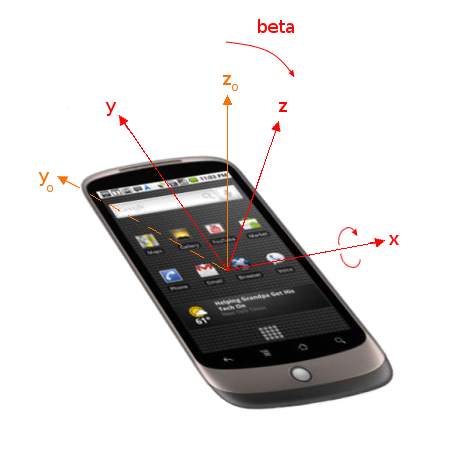
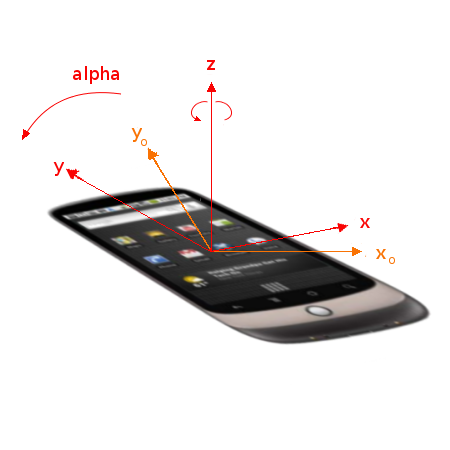
Changes to html5 deviceMotion api, and addition of the deviceOrientation api

diff --git a/api/html5_deviceMotion.js b/api/html5_deviceMotion.js
@@ -14,93 +14,249 @@
 * limitations under the License.
 */
 
+
 /**
- * @toc {Accelerometer} Acceleration
- * @PB10
- *Acceleration data is given in meters per second squared and uses the body axes defined in the device orientation event. Acceleration data (without the effect of gravity) cannot be provided when there is a lack of a gyroscope. 
- *Implementations that are unable to provide acceleration data without the effect of gravity may instead supply the acceleration including the effect of gravity. 
- *<p>The values reported are equal to the acceleration of the device, plus an acceleration equal and opposite to the acceleration due to gravity.
- *This is less useful in many applications but is provided as a means of providing best-effort support. 
- *These values can be stored and manipulated in variables outside the event scope. These values can be used to control the motion of objects defined on the DOM by the device's gyroscope and accelerometer. 
- *<p>Data Examples: 
- *A device lying flat on a horizontal surface with the screen upmost has an acceleration of zero and the following value for accelerationIncludingGravity:
- *     <p> {x: 0,
+ * @toc {DeviceOrientation} DeviceOrientationEvent
+ * @namespace The Orientation event is subsequently fired on a window object when a significant change on orientation occurs. 
+ * <br>Registration for orientation events is achieved by calling window.addEventListener with event type "deviceorientation". Implementations must only fire events asynchronously, after this call has returned.
+ * <br><br>The orientation of the device is given in terms of the transformation from a coordinate frame fixed on the Earth to a coordinate frame fixed in the device. This is typically implemented by combining information from an accelerometer and a magnetometer.
+ * <br><br>The event's absolute property dictates whether the implementation is able or unable to provide absolute values for the three angles of alpha, beta and gamma.
+ * <br><br>The values of alpha, beta and gamma represent the angles measured as the  device's axes change with respect to some fixed coordinate frame. See {@link RotationRate} for details.
+ * <br><br>A device lying flat on a horizontal surface with the top of the screen pointing west has the following orientation:
+ * <br>			<i> { alpha: 90, beta: 0, gamma: 0 }</i>
+ */
+ DeviceOrientationEvent = {
+
+	/**
+	 * @default 90
+	 * @type Number
+	 * @desc Returns the rotation angle around the device frame's Z-axis in degrees. See {@link RotationRate} for details.
+	 * @readOnly
+	 * @PB10
+	 */ 
+	alpha : Number,
+
+	/**
+	 * @default 0
+	 * @type Number
+	 * @desc Returns the rotation angle around the device frame's X-axis in degrees. See {@link RotationRate} for details.
+	 * @readOnly
+	 * @PB10
+	 */ 
+	beta : Number,
+
+	/**
+	 * @default 0
+	 * @type Number
+	 * @desc Returns the rotation angle around the device frame's Y-axis in degrees. See {@link RotationRate} for details.
+	 * @readOnly
+	 * @PB10
+	 */ 
+	gamma: Number,
+
+	/**
+	 * @type boolean
+	 * @desc Returns true if can provide absolute values for the three angles, false if can provide values for the three angles that are relative to some arbritary orientation.
+	 * @PB10
+	 */
+	absolute: boolean,
+
+	/**
+	 * @type boolean
+	 * @desc Indicates if the compass of the device is correctly calibrated. If it is set to false, user action, such as performing a manual calibration procedure, is required.
+	 * @PB10
+	 */
+	compassCalibrated: boolean,
+	
+	/**
+	 * @function 
+	 * @desc
+	 * @PB10
+	 * @example
+	 * &lt;script type="text/javascript"&gt;
+	 *
+	 * //Device Orientation is registered by calling window.addEventListener with event type "deviceorientation." 
+	 * window.addEventListener("deviceorientation", function(event) {
+	 *     // Events processes event.alpha, event.beta and event.gamma
+	 *              
+	 *     // The following code displays the alpha, beta and gamma values on the webworks application page. 
+	 *     Alpha.innerHTML = "alpha - " + event.alpha;         
+	 *     Beta.innerHTML = "beta - " + event.beta;
+	 * 	   Gamma.innerHTML = "gamma - " + event.gamma;
+	 *               
+	 * }, true)
+	 *
+	 * &lt;/script&gt;
+	 */
+	initDeviceOrientationEvent : function(){};
+
+};
+ 
+
+/**
+ * @toc {DeviceOrientation} Acceleration
+ * @namespace
+ * Acceleration data is given in meters per second squared and uses the body axes defined in the device orientation event. Acceleration data (without the effect of gravity) cannot be provided when there is a lack of a gyroscope. 
+ * Implementations that are unable to provide acceleration data without the effect of gravity may instead supply the acceleration including the effect of gravity. 
+ * <p>The values reported are equal to the acceleration of the device, plus an acceleration equal and opposite to the acceleration due to gravity.
+ * This is less useful in many applications but is provided as a means of providing best-effort support. 
+ * These values can be stored and manipulated in variables outside the event scope. These values can be used to control the motion of objects defined on the DOM by the device's gyroscope and accelerometer. 
+ * <br><br> {@image //images//xyz.png} <br><br>
+ * <p>Data Examples: 
+ * A device lying flat on a horizontal surface with the screen upmost has an acceleration of zero and the following value for accelerationIncludingGravity:
+ *     <p><i> {x: 0,
  *      y: 0,
- *      z: 9.81};</p></p>
- *A device is mounted in a vehicle, with the screen in a vertical plane, the top uppermost and facing the rear of the vehicle. The vehicle is travelling at speed v around a right-hand bend of radius r. 
- *The the device records a positive x component for both acceleration and accelerationIncludingGravity. The device also records a negative value for rotationRate.gamma:
- *<ul>
- *<li>acceleration: {x: v^2/r, y: 0, z: 0};</li>
- *<li>accelerationIncludingGravity: {x: v^2/r, y: 0, z: 9.81};</li>
- *<li>rotationRate: {alpha: 0, beta: 0, gamma: -v/r*180/pi} };</li>
- *</ul>
- *@class
- *@property {Number} x component of acceleration.
- *@property {Number} y component of acceleration.
- *@property {Number} z component of acceleration.
- */ 
-Acceleration={
-	x:, 
-	y:,
-	z:,
+ *      z: 9.81};</i></p></p>
+*/
+Acceleration = {
+
+	/**
+	 * @type Number
+	 * @desc x-coordinate of the acceleration
+	 * @readOnly
+	 * @PB10
+	 */ 
+	x:Number,
+
+	/**
+	 * @type Number
+	 * @desc y-coordinate of the acceleration
+	 * @readOnly
+	 * @PB10
+	 */ 	
+	y:Number,
+	
+	/**
+	 * @type Number
+	 * @desc z-coordinate of the acceleration
+	 * @readOnly
+	 * @PB10
+	 */ 
+	z:Number,
 };
 
 /**
- * @toc {Accelerometer} RotationRate
+ * @toc {DeviceOrientation} RotationRate
  * @PB10
- *Represents the Angular velocity of the motion.
- *The orientation of the device is given in terms of the transfromation from a coordinate frame fixed on the Earth to a coordinate frame fixed in the device.
- *The Earth coordinate frame is a 'East, North, Up' frame at the user's location. It has the following 3 axes, where the ground plane is tangent to the WGS 84 spheroid at the user's location.
- *<ul>
- *<li>East (X) is in the ground plane, perpendicular to the North axis and positive towards the East.</li>
- *<li>North (Y) is in the ground plane and positive towards True North (towards the North Pole).</li>
- *<li>Up (Z) is perpendicular to the ground plane and positive upwards.</li>
- *</ul>
- *For a mobile device, the device coordinate frame has the following 3 axes. The axes are defined relative to the standard orientation of the screen, 
- *typically portrait, when slide-out keyboards are not deployed. If the orientation of the screen changes when the device is rotated or a slide-out keyboard is deployed, 
- *this does not affect the orientation of the coordinate frame relative to the device. Users wishing to detect these changes in screen orientation may be able to do so with the existing orientationchange event.
- *<ul>
- *<li>x is in the plane of the screen and is positive towards the right hand side of the screen.</li>
- *<li>y is in the plane of the screen and is positive towards the top of the screen.</li>
- *<li>z is perpendicular to the screen, positive out of the screen.</li>
- *</ul>
- *The transformation from the Earth frame to the device frame is expressed in terms of 3 rotations, 
- *specified in the device frame. Rotations use the right-hand convention: positive rotation around an axis is clockwise when viewed along the positive direction of the axis.
- *@class
- *@property {Number} alpha Angular velocity of the device frame around its z axis by alpha degrees/s.
- *@property {Number} beta Angular velocity of the device frame around its x axis by beta degrees/s.
- *@property {Number} gamma Angular velocity of the device frame around its y axis by gamma degrees/s.
+ * @namespace
+ * Represents the Angular velocity of the motion.
+ * The orientation of the device is given in terms of the transfromation from a coordinate frame fixed on the Earth to a coordinate frame fixed in the device.
+ * The Earth coordinate frame is a 'East, North, Up' frame at the user's location. It has the following 3 axes, where the ground plane is tangent to the WGS 84 spheroid at the user's location.
+ * <ul>
+ * <li>East (X) is in the ground plane, perpendicular to the North axis and positive towards the East.</li>
+ * <li>North (Y) is in the ground plane and positive towards True North (towards the North Pole).</li>
+ * <li>Up (Z) is perpendicular to the ground plane and positive upwards.</li>
+ * </ul>
+ * For a mobile device, the device coordinate frame has the following 3 axes. The axes are defined relative to the standard orientation of the screen, 
+ * typically portrait, when slide-out keyboards are not deployed. If the orientation of the screen changes when the device is rotated or a slide-out keyboard is deployed, 
+ * this does not affect the orientation of the coordinate frame relative to the device. Users wishing to detect these changes in screen orientation may be able to do so with the existing orientationchange event.
+ * <ul>
+ * <li>x is in the plane of the screen and is positive towards the right hand side of the screen.</li>
+ * <li>y is in the plane of the screen and is positive towards the top of the screen.</li>
+ * <li>z is perpendicular to the screen, positive out of the screen.</li>
+ * </ul>
+ * The transformation from the Earth frame to the device frame is expressed in terms of 3 rotations, 
+ * specified in the device frame. Rotations use the right-hand convention: positive rotation around an axis is clockwise when viewed along the positive direction of the axis.
  */ 
 RotationRate={
-	alpha:,
-	beta:,
-	gamma:,
+
+ /*@property {Number} alpha Angular velocity of the device frame around its z axis by alpha degrees/s.
+  *@property {Number} beta Angular velocity of the device frame around its x axis by beta degrees/s.
+  *@property {Number} gamma Angular velocity of the device frame around its y axis by gamma degrees/s.
+  */
+  
+ 	/**
+	 * @default 90
+	 * @type Number
+	 * @desc Returns the rotation angle around the device frame's Z-axis in degrees.
+	 * {@image //images//a-rotation.png}
+	 * @readOnly
+	 * @PB10
+	 */ 
+	alpha : Number,
+
+	/**
+	 * @default 0
+	 * @type Number
+	 * @desc Returns the rotation angle around the device frame's X-axis in degrees.
+	 * {@image //images//b-rotation.png}
+	 * @readOnly
+	 * @PB10
+	 */ 
+	beta : Number,
+
+	/**
+	 * @default 0
+	 * @type Number
+	 * @desc Returns the rotation angle around the device frame's Y-axis in degrees.
+	 * {@image //images//g-rotation.png}
+	 * @readOnly
+	 * @PB10
+	 */ 
+	gamma: Number,
 };
 
 /**
- * @toc {Accelerometer} DeviceMotionEvent
+ * @toc {DeviceOrientation} DeviceMotionEvent
  * @PB10
- *This event provides direct access to motion data from an accelerometer and gyroscope. The three pieces of data provided are the acceleration, acceleration including gravity and rotation rate. <br>Because our hardware currently does not have a gyroscope, not all interfaces of this event are available to us (acceleration without gravity and rotation rate.)<br>
- *@class 
- *@property {Acceleration} acceleration The acceleration provided by the acceleration property is that of the body and hence excludes the effect of gravity.
- *@property {Acceleration} accelerationIncludingGravity Implementations that are unable to provide acceleration data without the effect of gravity (due, for example, to the lack of a gyroscope) may instead supply the acceleration including the effect of gravity. This is less useful in many applications but is provided as a means of providing best-effort support. 
- *In this case, the values reported are equal to the acceleration of the device, plus an acceleration equal and opposite to the acceleration due to gravity.
- *@property {RotationRate} rotationRate The Angular velocity of the motion.
- *@property {Number} interval event must fire at regular intervals and the interval must be reported, in milliseconds, using the interval attribute of the DeviceMotionEvent object. Note that the interval is a constant for a given implementation.
- *@example 
- *window.addEventListener("devicemotion", function(event) {
- *	var ax = "Acceleration X value- " + event.accelerationIncludingGravity.x;
- *	var ay = "Acceleration Y value- " + event.accelerationIncludingGravity.y;
- *	var az = "Acceleration Z value- " + event.accelerationIncludingGravity.z;
- *	var rotation = "Rotation rate - " + event.rotationRate;
- *	alert(ax+"\n"+ay+"\n"+az);
- *}, true);
+ * @namespace
+ * This event provides direct access to motion data from an accelerometer and gyroscope. The three pieces of data provided are the acceleration, acceleration including gravity and rotation rate. <br>Because our hardware currently does not have a gyroscope, not all interfaces of this event are available to us (acceleration without gravity and rotation rate.)<br>
  */ 
-DeviceMotionEvent={
-	acceleration:,
-	accelerationIncludingGravity:,
-	rotationRate:,
-	interval:,
+DeviceMotionEvent = {
+
+	/**
+	 * @type Number
+	 * @desc The regular interval at which the event must fire at, given in milliseconds
+	 * @readOnly
+	 * @PB10
+	 */ 
+	interval: Number,
+	
+	/**
+	 * @type Acceleration
+	 * @desc The acceleration provided by the acceleration property is that of the body and hence excludes the effect of gravity.
+	 * @readOnly
+	 * @PB10
+	 */
+	acceleration:null,
+	
+	/**
+	 * @type Acceleration
+	 * @desc Implementations that are unable to provide acceleration data without the effect of gravity (due, for example, to the lack of a gyroscope) may instead supply the acceleration including the effect of gravity. This is less useful in many applications but is provided as a means of providing best-effort support. 
+	 * In this case, the values reported are equal to the acceleration of the device, plus an acceleration equal and opposite to the acceleration due to gravity.
+	 * @readOnly
+	 * @PB10
+	 */
+	accelerationIncludingGravity:null,
+	
+	/**
+	 * @type RotationRate
+	 * @desc The angular velocity of the motion.
+	 * @readOnly
+	 * @PB10
+	 */
+	rotationRate:null,
+	
+	/**
+	 * @function 
+	 * @PB10
+	 * @example
+	 * &lt;script type="text/javascript"&gt;
+	 *
+	 * window.addEventListener("devicemotion", function(event) {
+	 *
+	 *		var ax = "Acceleration X value- " + event.accelerationIncludingGravity.x;
+	 *		var ay = "Acceleration Y value- " + event.accelerationIncludingGravity.y;
+	 *		var az = "Acceleration Z value- " + event.accelerationIncludingGravity.z;
+	 *		var rotation = "Rotation rate - " + event.rotationRate;
+	 *
+	 *		alert(ax+"\n"+ay+"\n"+az);
+	 *
+	 * }, true);
+	 *
+	 * &lt;/script&gt;
+	 */
+	initDeviceMotionEvent : function(){};
 };
 
 
